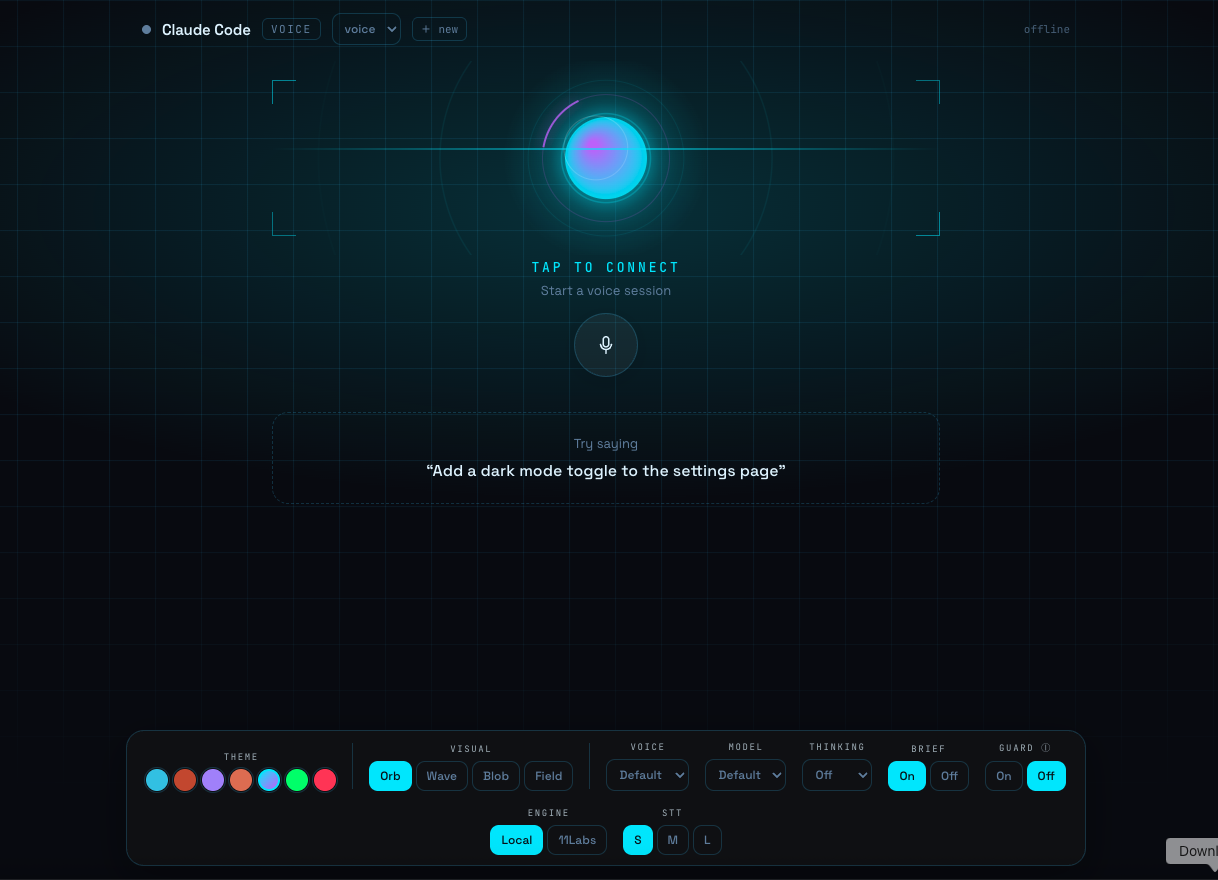
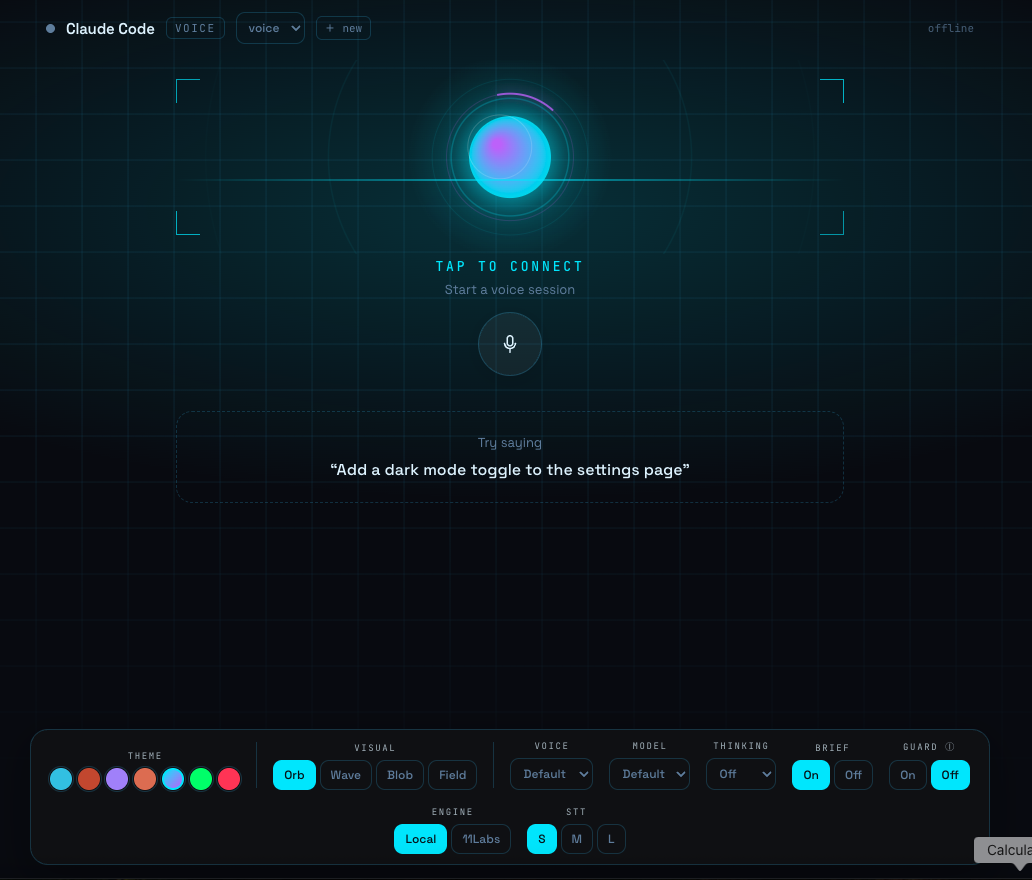
docs: simplify README; swap in cleaner Voice Console screenshot

diff --git a/README.md b/README.md
@@ -1,202 +1,94 @@
 # claude-voice-code (`cvc`)
 
-Talk to **Claude Code** by voice — naturally, two-way, with barge-in — from your
-**terminal** or a **web UI**.
+Talk to **Claude Code** by voice — two-way, with barge-in — from your **terminal**
+or a **web UI**.
 
 <p align="center">
-  <img src="docs/screenshot.png" alt="cvc Voice Console — the web UI" width="820">
+  <img src="docs/screenshot.png" alt="cvc Voice Console" width="780">
 </p>
 
 `cvc` bridges to a normal, already-authenticated `claude` running in a tmux
-session. Your speech is transcribed and injected into the session as if typed,
-and Claude's reply is read straight from the session transcript and spoken back
-— **streamed sentence by sentence** so you hear the first words while the rest is
-still being written. A turn-taking state machine (`idle → listening → thinking →
-speaking`) ties it together, with **barge-in**: start talking while it speaks and
-it stops to listen.
-
-Speech runs **offline** (sherpa-onnx: Whisper STT + Kokoro TTS + Silero VAD) or
-via **ElevenLabs** — switchable per side, even live from the web UI.
-
-```
-you ──speak──▶ STT (Whisper / Scribe) ──▶ inject into tmux `claude` (paste + Enter)
-                                                  │
-                                                  ▼
-you ◀─hear──── TTS (Kokoro / ElevenLabs) ◀── read reply from the session JSONL
-```
+session: your speech is transcribed and injected as if typed, and Claude's reply
+is read from the session transcript and spoken back — streamed sentence by
+sentence. Speech runs **offline** (sherpa-onnx: Whisper + Kokoro + Silero VAD) or
+via **ElevenLabs**, switchable per side.
 
 ## Features
 
-- **Two-way voice** with **barge-in** — talk over the agent and it yields.
-- **Two front-ends** — a terminal client (push-to-talk or hands-free) and a web
-  UI with an audio-reactive orb.
-- **Local or cloud, per side** — offline sherpa-onnx (free, no key) or ElevenLabs,
-  switch STT and TTS independently.
-- **Streaming replies** — speaks each sentence as Claude writes it; first audio in
-  ~1 s, models warmed at connect so the first turn isn't cold.
-- **Guard mode** *(opt-in)* — a spoken confirmation gate for risky tool calls
-  (e.g. `rm`, `git push`, any MCP tool): it asks out loud and waits for your "yes".
-- **Brief mode** and **thinking levels** (think / think-hard / ultrathink),
-  toggled per session.
-- **Latency HUD** — per-turn breakdown (STT · think · first-audio · total) so you
-  can tune engines and models by ear *and* by number.
-- **Web console** — 7 themes, 4 visualizers (Orb / Wave / Blob / Field), and live
-  switchers for engine, Whisper size (S/M/L), voice, model, thinking, Brief, Guard.
+- **Two-way voice with barge-in** — talk over the agent and it yields.
+- **Terminal + web** front-ends (the web UI adds echo cancellation for speakers).
+- **Local or cloud, per side** — free offline engines, or ElevenLabs with a key.
+- **Streaming replies** — speaks each sentence as it lands; models warm at connect.
+- **Guard mode** *(opt-in)* — speaks a confirmation for risky tool calls (`rm`,
+  `git push`, MCP tools) and waits for a spoken yes/no; fail-closed.
+- **Web console** — themes, audio-reactive visualizers, and live switchers for
+  engine, Whisper size, voice, model, thinking level, and Brief.
 
 ## Quickstart
 
 ```bash
 npm install
-npm run cvc -- setup          # install tmux, download offline models, write config
-npm run cvc -- doctor         # verify your environment
+npm run cvc -- setup     # install tmux, download offline models, write config
+npm run cvc -- doctor    # verify your environment
 
-# Terminal voice:
-npm run cvc -- start          # open a Claude session and start talking
+npm run cvc -- start     # terminal: open a Claude session and start talking
 
-# Web UI:
-npm run web:build
-npm run cvc -- serve          # then open the printed URL (http://127.0.0.1:5173)
+npm run web:build        # web UI:
+npm run cvc -- serve     #   then open http://127.0.0.1:5173
 ```
 
-Install the `cvc` command globally with `npm i -g .` (or `npm link`) from the repo
-root, then use `cvc setup`, `cvc start`, `cvc serve`, … directly.
+Install globally with `npm i -g .` (or `npm link`) to use `cvc …` directly.
 
 ## Requirements
 
-- macOS or Linux, **Node ≥ 20** (developed on 24)
-- **tmux** — installed for you by `cvc setup` (or `brew install tmux`)
-- **sox** — mic capture & playback for the terminal client (`brew install sox`)
-- A logged-in **`claude`** (Claude Code) on your `PATH` — `cvc start` launches one
+- macOS or Linux, **Node ≥ 20**
+- **tmux** and **sox** (`cvc setup` installs tmux; `brew install sox`)
+- A logged-in **`claude`** on your `PATH`
 - For cloud speech only: an **`ELEVENLABS_API_KEY`**
-
-Offline speech needs no API key; `cvc setup` downloads the models (Silero VAD,
-Whisper, and Kokoro — int8 Kokoro is ~103 MB, fp32 ~320 MB) into
-`~/.cache/claude-voice-code/models`.
 
 ## Commands
 
 | Command | What it does |
 |---|---|
 | `cvc setup` | Install tmux, download offline models, write `cvc.config.jsonc` |
-| `cvc doctor [--mic]` | Check node/tmux/claude/sox/models/api-key (and mic with `--mic`) |
-| `cvc start [--attach <s>]` | Ensure a Claude tmux session (launch claude), then talk |
-| `cvc talk [--open-mic]` | Terminal voice loop (push-to-talk; `--open-mic` for hands-free) |
-| `cvc serve [--port N]` | Start the web UI server (browser, WebRTC) |
-| `cvc say -m "…" [--out f.wav]` | Speak text via the configured TTS (smoke test) |
+| `cvc doctor [--mic]` | Check node/tmux/claude/sox/models/api-key (and mic) |
+| `cvc start [--attach <s>]` | Ensure a Claude tmux session, then talk |
+| `cvc talk [--open-mic]` | Terminal voice loop (push-to-talk; `--open-mic` = hands-free) |
+| `cvc serve [--port N]` | Start the web UI server |
 | `cvc inject -m "…"` | Send text to Claude and print the reply (no audio) |
-| `cvc download-models [--only …] [--hifi] [--force]` | Fetch offline speech models |
+| `cvc download-models [--hifi]` | Fetch offline speech models |
 
-**Terminal push-to-talk:** press `SPACE` to open the mic, speak, then pause — your
-turn is sent automatically; `SPACE` again mutes; `Ctrl-C` quits. `--open-mic` keeps
-the mic live (use headphones — the terminal has no echo cancellation).
-
-**Web UI:** click the mic to connect, then just talk (the browser provides echo
-cancellation, so barge-in works on speakers). All controls live in the bottom dock
-— theme, visualizer, engine (Local / 11Labs), Whisper size, voice, model, thinking
-level, Brief, and Guard.
-
-## Guard mode (spoken tool confirmation)
-
-Off by default. When you flip **Guard** on, `cvc` launches `claude` with a
-`PreToolUse` hook (via `claude --settings <generated file>`, so your projects are
-never modified). Before a risky tool runs — any MCP tool, destructive Bash like
-`rm` / `git push` / `dd`, or writes to sensitive paths — the hook asks `cvc` over a
-local Unix socket, which **speaks the request and waits for a spoken yes/no**. It is
-**fail-closed**: anything that isn't a clear "yes" denies. Guard is the only mode
-that pairs with `--dangerously-skip-permissions`, so you trade Claude Code's typed
-prompts for voice ones rather than removing the gate.
-
-## How it works
-
-- **The bridge.** Inject a turn with `tmux load-buffer → paste-buffer → send-keys
-  Enter`. Read the reply by polling the JSONL Claude writes to
-  `~/.claude/projects/<cwd>/` (the cwd with every `/` and `.` turned into `-`). The
-  reply is keyed to *our* injected message, so it's correct even when other Claude
-  sessions share the project dir; barge-in sends `Escape`.
-- **STT.** Local: Silero VAD endpoints an utterance, then offline Whisper
-  (`small.en` by default) transcribes the whole thing. Non-speech noise tokens
-  (`[BLANK_AUDIO]`, `(buzzing)`, …) are stripped so they never reach Claude. Cloud:
-  a light energy gate + ElevenLabs `/speech-to-text` (Scribe).
-- **TTS.** Local: Kokoro (24 kHz), streamed in small chunks so the first words play
-  fast. Cloud: ElevenLabs HTTP streaming. Audio is mono s16 throughout; resampling
-  lives in one place.
-- **Transport.** The web client uses **WebRTC** (werift + Opus) purely so the
-  browser gives us **acoustic echo cancellation** — without it, the agent's TTS
-  feeds back into the mic. A 20 ms pacer streams TTS out and keeps the track warm.
-- **Gateway.** A pure turn-state reducer (`packages/core/src/gateway/turnState.ts`)
-  decides transitions + effects (inject / cancelTTS / interruptAgent); the gateway
-  runs them, streaming the reply through a per-turn TTS queue and cancelling the
-  in-flight reply + audio on barge-in.
+**Terminal push-to-talk:** `SPACE` opens the mic; pause and your turn is sent;
+`SPACE` mutes; `Ctrl-C` quits. **Web:** click the mic to connect, then just talk.
 
 ## Configuration
 
-Copy `cvc.config.example.jsonc` → `cvc.config.jsonc` and edit (`cvc setup` does this
-for you). Precedence: **CLI flag > env var > config file > built-in default.**
+Copy `cvc.config.example.jsonc` → `cvc.config.jsonc` and edit (`cvc setup` does
+this). Precedence: **CLI flag > env var > config file > default**. Common knobs:
+`CVC_STT`/`CVC_TTS` (`local`|`elevenlabs`|`off`), `ELEVENLABS_API_KEY`,
+`CVC_PORT`, `CVC_NUM_THREADS`.
 
-| Key | Env | Default | Notes |
-|---|---|---|---|
-| `stt` / `tts` | `CVC_STT` / `CVC_TTS` | `local` | `local` \| `elevenlabs` \| `off` |
-| `elevenlabs.apiKey` | `ELEVENLABS_API_KEY` | — | required for cloud engines |
-| `models.dir` | `CVC_MODELS_DIR` | `~/.cache/claude-voice-code/models` | offline models |
-| `models.whisper` | — | `sherpa-onnx-whisper-small.en` | STT model dir (S/M/L in the UI) |
-| `claudeBin` | `CLAUDE_BIN` | `claude` | binary `cvc start` launches |
-| `tmux.session` | `CVC_TMUX_SESSION` | `cvc-voice` | managed session name |
-| `tmux.cwd` | `CVC_CLAUDE_CWD` | current dir | Claude's working dir |
-| `tmux.attach` | `CVC_TMUX_ATTACH` | — | bind an existing session instead |
-| `reply.summarize` | — | `false` | speak a short excerpt of long replies |
-| `server.port` / `server.host` | `CVC_PORT` / `CVC_HOST` | `5173` / `127.0.0.1` | |
+## How it works
 
-Threads for the local models default to `4`; set `CVC_NUM_THREADS` higher on a
-many-core machine for faster decode/synthesis.
-
-## Project layout
-
-```
-packages/core    speech providers, the tmux bridge, the turn-taking gateway (shared)
-packages/server  WebRTC transport + WS signaling + static host + Guard socket (web)
-apps/cli         the `cvc` terminal command + terminal voice client
-apps/web         React + Vite browser UI (the Voice Console)
-design/          the Voice Console design reference (themes / visualizers)
-```
-
-**Why the split:** `core` holds the STT/TTS/bridge/gateway logic with no transport
-or UI imports, so the server (web) and CLI (terminal) share identical brains. The
-native `sherpa-onnx-node` module is a lazy `require()` only inside the local
-providers, so ElevenLabs/`off` users never load it.
+A turn injects via tmux (`load-buffer → paste-buffer → Enter`); the reply is read
+from the JSONL Claude writes under `~/.claude/projects/<cwd>/`, keyed to our
+injected message and streamed out through a per-turn TTS queue. Barge-in sends
+`Escape` and drops in-flight audio. The web client uses WebRTC purely for the
+browser's acoustic echo cancellation. Shared logic lives in `packages/core`
+(speech providers, the bridge, the turn-state gateway); `apps/cli` and
+`packages/server` are thin front-ends.
 
 ## Development
 
 ```bash
-npm run typecheck                 # tsc across core/server/cli (tsx runs everything)
-npm test                          # unit tests (node:test)
-CVC_AUDIO_TESTS=1 npm test        # + local TTS→STT round-trip (needs models)
-CVC_RTC_TESTS=1 npm test          # + real-WebRTC transport loopback
-npm run web:build                 # build the web UI into apps/web/dist
+npm run typecheck
+npm test                      # unit tests (node:test)
+CVC_AUDIO_TESTS=1 npm test    # + local TTS→STT round-trip (needs models)
+CVC_RTC_TESTS=1 npm test      # + real-WebRTC transport loopback
 ```
 
-There's no compile step for running — the CLI and server run TypeScript directly
-via `tsx`; `tsc` is used purely for type-checking.
-
-## Troubleshooting
-
-- **No transcript / silent mic (terminal):** grant your terminal app Microphone
-  permission in System Settings → Privacy. `cvc doctor --mic` records ~0.6 s and
-  reports the input level.
-- **`tmux` not found:** `cvc setup` or `brew install tmux`. On non-default sockets,
-  set `tmux.socket` / `CVC_TMUX_SOCKET`.
-- **`cvc serve` shows "not built":** run `npm run web:build` once.
-- **First turn feels slow:** the local models warm up a second or two after you
-  connect — pause briefly before your first sentence, or raise `CVC_NUM_THREADS`.
-- **`npm audit`** reports a few highs from `werift`'s WebRTC transitive deps; they
-  only affect the local web server you run yourself.
-
-## Roadmap
-
-- True LLM-based summarization of long replies (currently a length-gated excerpt).
-- Per-voice picker and a usage meter for cloud engines.
-- Auto-reconnect with visible error states; settings persistence.
-- Wake-word to start a turn hands-free.
+The CLI and server run TypeScript directly via `tsx`; `tsc` is type-check only.
 
 ## License
 
-MIT
+MIT — see [LICENSE](LICENSE).